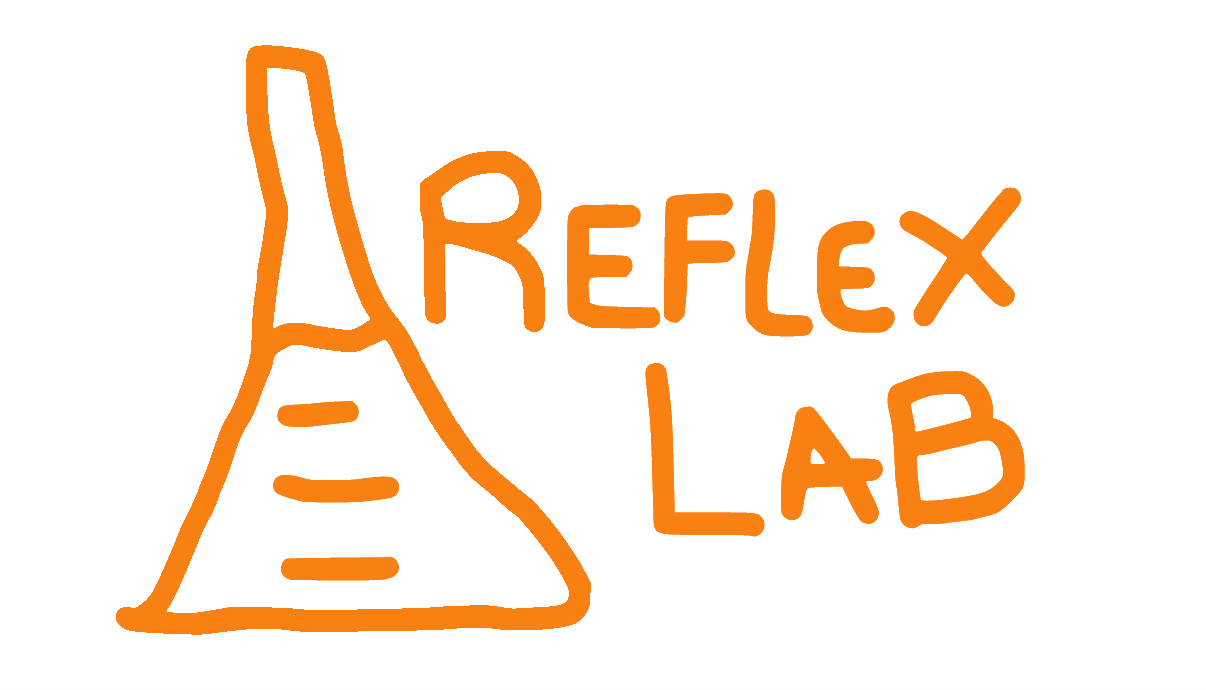
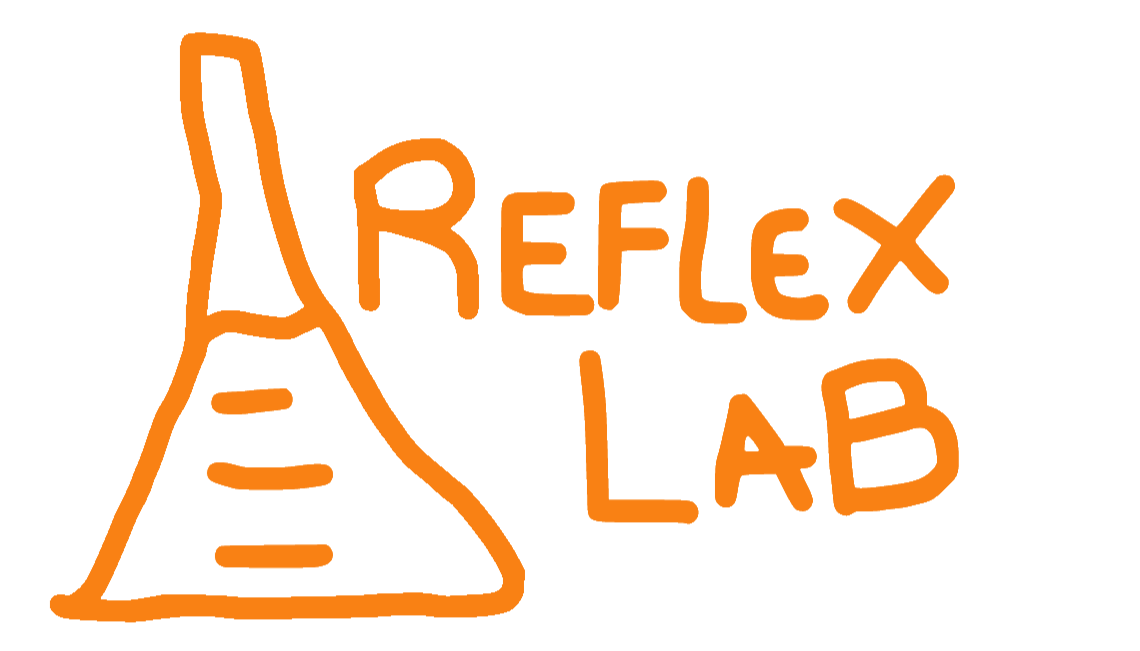
design v1

Changed region(s): [[0.0307, 0.0307, 0.8596, 0.9831]]

diff --git a/script.js b/script.js
@@ -12,7 +12,7 @@ function arm() {
     state = 'armed';
     area.classList.remove('outlined');
     area.style.background = '#b23a3a';
-    message.textContent = 'wait for green...';
+    message.textContent = 'Wait for green...';
     result.textContent = '';
 
     const delay = 1000 + Math.random() * 3000;
@@ -22,7 +22,7 @@ function arm() {
 function getReady() {
     state = 'ready';
     area.style.background = '#2f9e63';
-    message.textContent = 'click now!';
+    message.textContent = 'REFLEX!';
     greenInstant = performance.now();
 }
 
@@ -30,7 +30,7 @@ function registerClick() {
     const reactionTimeMs = performance.now() - greenInstant;
     state = 'idle';
     area.style.background = '#b23a3a';
-    message.textContent = 'click to try again';
+    message.textContent = 'Click to try again :)';
     result.textContent = `${Math.round(reactionTimeMs)} ms`; 
     addToHistory(reactionTimeMs);
     area.classList.add('outlined');
@@ -40,19 +40,32 @@ function tooEarly() {
     clearTimeout(timer);
     state = 'idle';
     area.style.background = '#6b2626';
-    message.textContent = 'too early! click to try again';
+    message.textContent = 'Too early! Click to try again';
     area.classList.add('outlined');
 }
 
 function addToHistory(ms) {
     const item = document.createElement('li');
     item.textContent = `${Math.round(ms)} ms`;
+    item.style.background = colorForTime(ms);
     history.prepend(item);
+    
 
     while(history.children.length > MAX_HISTORY) {
         history.removeChild(history.lastChild);
     }
 }
+
+function colorForTime(ms) {
+    if (ms < 250) {
+        return '#2f9e63';
+    } else if (ms < 400) {
+        return '#b3892f';
+    } else {
+        return '#b23a3a';
+    }
+}
+
 
 function startOrReact() {
     if (state === 'idle') {

diff --git a/style.css b/style.css
@@ -7,7 +7,7 @@
 body {
     margin: 0;
     min-height: 100vh;
-    background: #14171c;
+    background: #161A22;
     background-size: 32px 32px;
     color: #eef1f5;
     font-family: 'Work Sans', sans-serif;
@@ -35,6 +35,13 @@ body {
     text-align: center;
 }
 
+.logo {
+    max-width: 250px;
+    width: 280px;
+    height: auto;
+    margin-bottom: -15px;
+}
+
 .area {
     width: 100%;
     height: 340px;
@@ -50,12 +57,12 @@ body {
     user-select: none;
     box-shadow:
     inset 0 0 0 1px rgba(255, 255, 255, 0.06),
-    inset 0 12px 30px rgba(0, 0, 0, 0.25);
+    inset 0 12px 30px rgba(32, 30, 30, 0.25);
 }
 
 .message {
     font-family: 'Work Sans', sans-serif;
-    font-weight: 500;
+    font-weight: 550;
     font-size: 18px;
     color: rgba(255, 255, 255, 0.9);
     margin: 0;
@@ -65,7 +72,7 @@ body {
 
 .result {
     font-family: 'IBM Plex Mono', monospace;
-    font-weight: 600;
+    font-weight: 550;
     font-size: 32px;
     color: #f2a65a;
     margin: 0;
@@ -97,6 +104,7 @@ body {
     padding: 0;
     margin: 0;
     width: 100%;
+    opacity: 0.88;
 }
 
 .history li {
@@ -106,4 +114,9 @@ body {
     background: #1e222b;
     border-radius: 6px;
     padding: 6px 10px;
+    font-weight: 550;
+}
+
+.body:focus {
+    outline: none;
 }

diff --git a/index.html b/index.html
@@ -3,13 +3,15 @@
 <head>
     <meta charset="UTF-8" />
     <meta name="viewport" content="width=device-width, initial-scale=1.0" />
-    <title>ReflexLab!</title>
+    <title>ReflexLab</title>
     <link rel="stylesheet" href="style.css" />
 </head>
 <body>
 
     <main class="screen">
-        <h1 class="title">ReflexLab</h1>
+        <h1 class="title">
+            <img src="assets/relflex3.png" alr="ReflexLab" class="logo" />
+        </h1>
 
         <div id="area" class="area" role="button" tabindex="0" aria-label="Reaction time test area">
             <p id="message" class="message">click to start</p>
